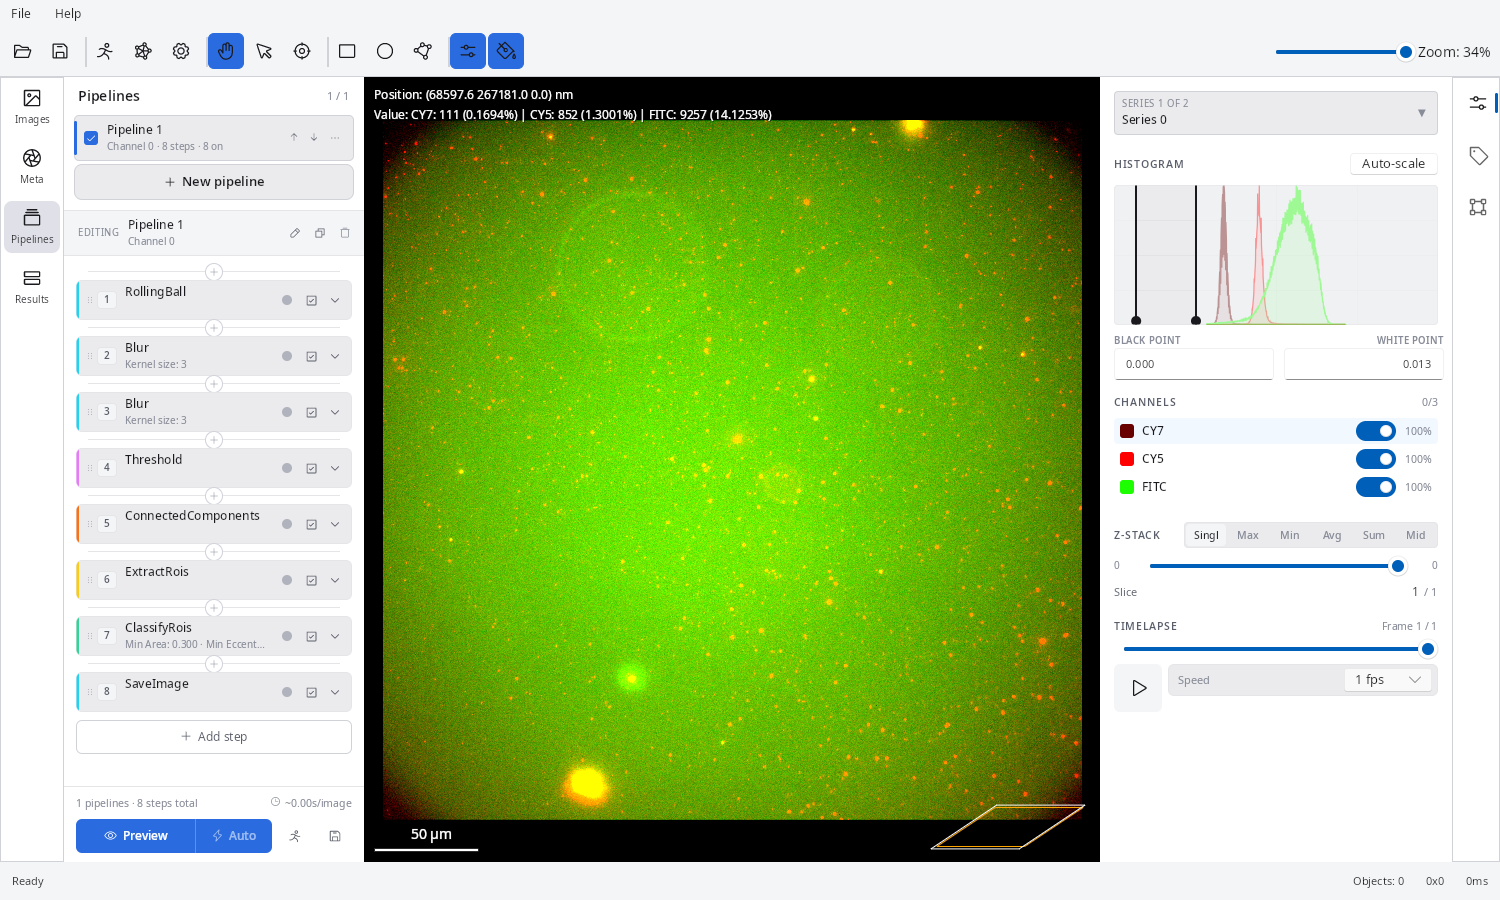
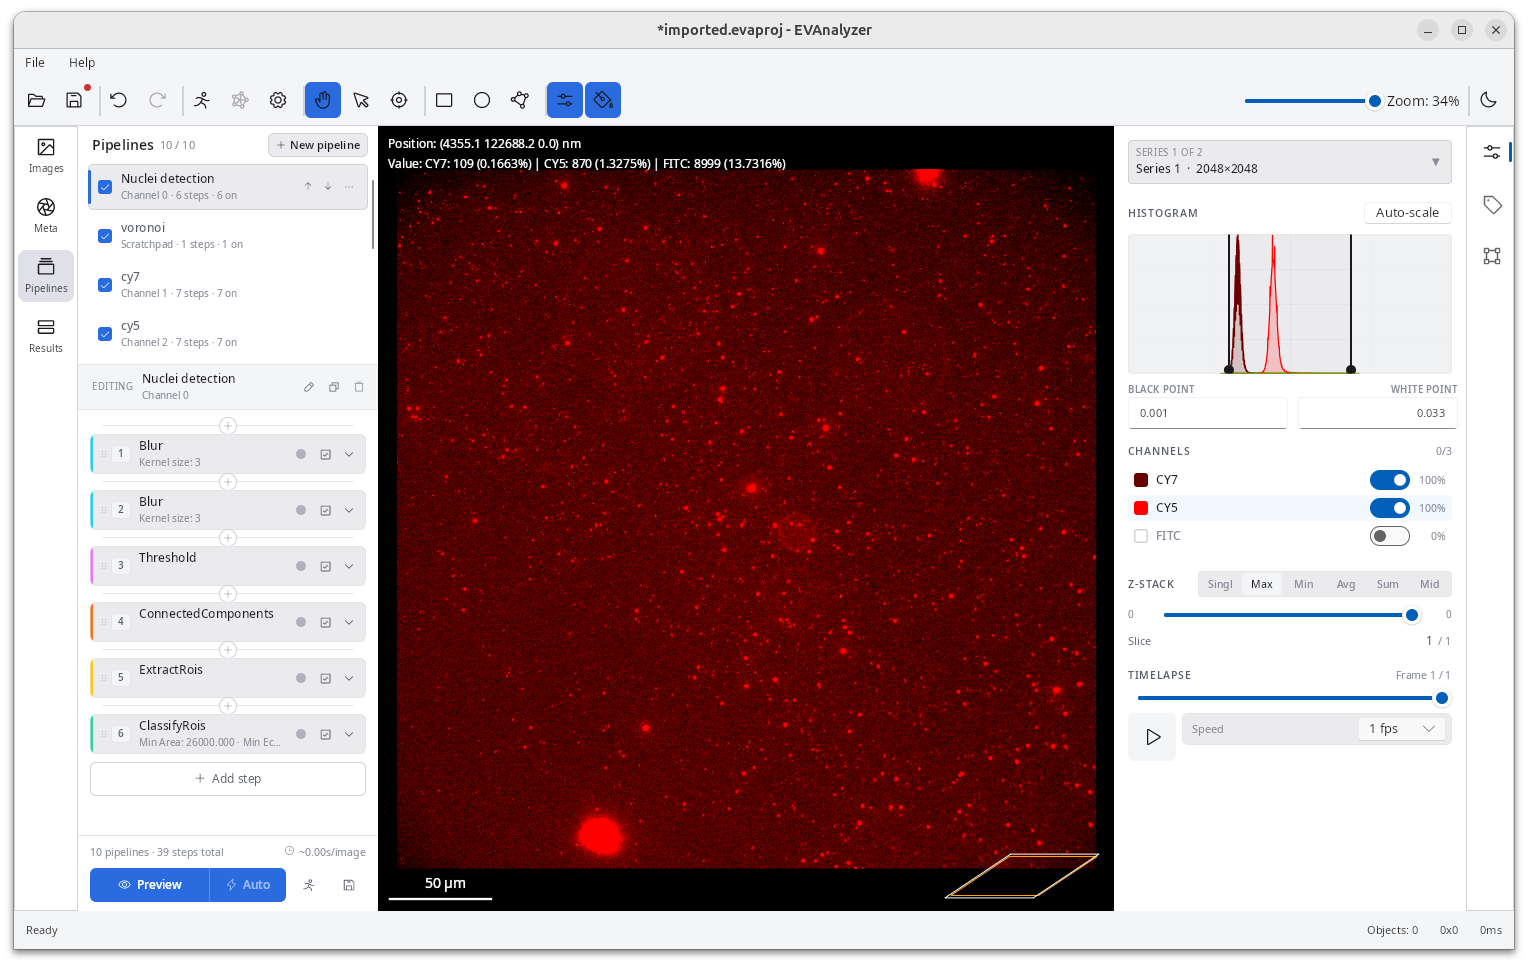
chore: Added scrrenshots

diff --git a/src/styles/custom.css b/src/styles/custom.css
@@ -180,13 +180,6 @@ site-search dialog::backdrop {
 .evx-screenshot {
 	margin: 2.5rem 0;
 }
-.evx-screenshot img {
-	display: block;
-	width: 100%;
-	height: auto;
-	border-radius: 0.75rem;
-	box-shadow: var(--sl-shadow-lg);
-}
 .evx-caption {
 	margin-top: 0.75rem;
 	text-align: center;
